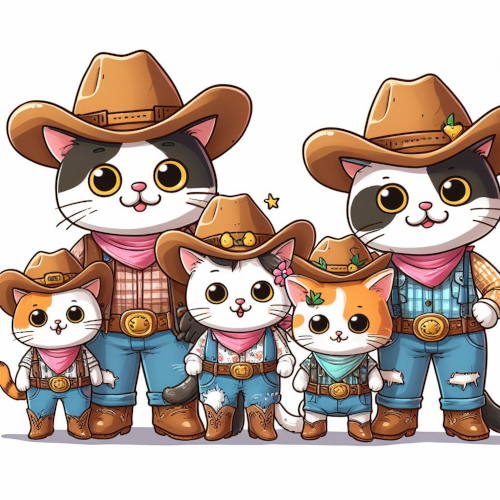
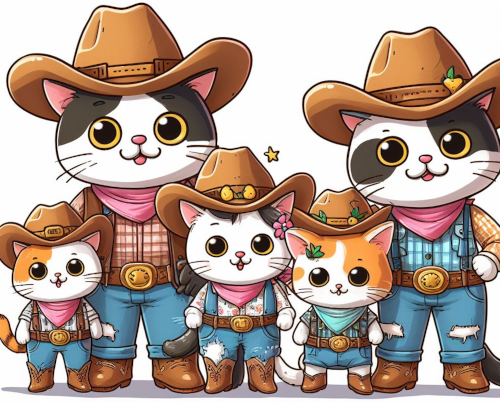
added css

diff --git a/final/rescource.html b/final/rescource.html
@@ -8,7 +8,7 @@
 </head>
 <body>
     <header>
-        <a href="index.html"><img src="img/logo.png" alt="logo"></a>
+        <a href="index.html" class="logo"><img src="img/logo.png" alt="logo"></a>
         <h1>Hopeful Ranch</h1>
         <nav>
             <a href="index.html">Home</a>
@@ -17,34 +17,35 @@
         </nav>
     </header>
     <main>
-        <h1>Rescources for starting a ranch</h1>
+        <h1 class="title_rescources">Rescources for starting a ranch</h1>
+        <img src="img/resources.png" alt="mexican cat" class="mexican_cat">
         <div class="websites">
-            <img src="img/resources.png" alt="mexican cat">
             <h2>Websites:</h2>
+            <a href="https://www.usda.gov/media/blog/2020/09/24/new-and-beginning-farmers-future-american-agriculture">1. USDA New Farmers</a>
             <p>USDA New Farmers: The United States Department of Agriculture (USDA) provides a wealth of resources and information for new farmers and ranchers. Visit their website for guidance on agricultural practices, financing, and more.</p>
-            <a href="https://www.usda.gov/media/blog/2020/09/24/new-and-beginning-farmers-future-american-agriculture">USDA New Farmers</a>
+            <a href="https://www.ncba.org/">2. NCBA</a>
             <p>National Cattlemen's Beef Association (NCBA): If you're interested in cattle ranching, the NCBA offers resources, market information, and educational materials.</p>
-            <a href="https://www.ncba.org/">NCBA</a>
+            <a href="https://extension.org/">3. eXtension</a>
             <p>eXtension: This collaborative platform offers a wide range of resources, articles, and webinars on various aspects of agriculture and ranching.</p>
-            <a href="https://extension.org/">eXtension</a>
+            <a href="https://www.ranchers.net/">4. Ranchers.net</a>
             <p>Ranchers.net: An online community and forum where experienced ranchers share their knowledge, offer advice, and discuss various ranching topics.</p>
-            <a href="https://www.ranchers.net/">Ranchers.net</a>
+            <a href="https://www.rfdtv.com/the-american-rancher">5. American Rancher</a>
             <p>American Rancher: A website offering news, articles, and resources related to the ranching industry, including cattle ranching and agriculture.</p>
-            <a href="https://www.rfdtv.com/the-american-rancher">American Rancher</a>
-
+            
         </div>
+        <img src="img/cowandcat.png" alt="catcow" class="cow_cat">
         <div class="books">
-            <img src="img/cowandcat.png" alt="catcow">
             <h2>Books:</h2>
-            <h3>The Complete Guide to Buying, Owning, and Selling a Ranch</h3>
-            <p>by Peggy Thompson: This comprehensive guide provides insights into the process of purchasing, managing, and selling a ranch.</p>
-            <h3>Raising Beef Cattle For Dummies</h3>
+            <a href="https://www.amazon.com/Raising-Cattle-Dummies-Scott-Royer/dp/0470930616">1. Raising Beef Cattle For Dummies</a>
             <p>by Scott Roy and Nikki Roy: A beginner-friendly book that covers the basics of raising beef cattle, including animal care, feeding, and business aspects.</p>
-            <h3>Ranching Full-Time on 3 Hours a Day</h3>
+            <a href="https://www.amazon.com/Ranching-Full-Time-Three-Hours-Day/dp/1601730268">2. Ranching Full-Time on 3 Hours a Day</a>
             <p>by Cody Holmes: This book offers practical advice on ranch management and time-saving techniques for aspiring ranchers.</p>
-            <h3>Storey's Guide to Raising Beef Cattle</h3>
+            <a href="https://www.amazon.com/Storeys-Guide-Raising-Beef-Cattle/dp/1635860393">3. Storey's Guide to Raising Beef Cattle</a>
             <p>by Heather Smith Thomas: A well-regarded resource for cattle ranchers, covering all aspects of raising beef cattle, from breeding to marketing.</p>
-
+            <a href="https://www.stockmangrassfarmer.com/index.php">4. The Stockman Grassfarmer" magazine</a>
+            <p>While not a book, this publication provides valuable insights into sustainable grazing and livestock management practices.</p>
+            <a href="https://www.amazon.com/Holistic-Management-Third-Commonsense-Environment/dp/161091743X">5. Holistic Management: A Commonsense Revolution to Restore Our Environment</a>
+            <p>by Allan Savory: Although not specific to ranching, this book offers valuable insights into sustainable land management and can be highly relevant to ranching practices.</p>
 
 
         </div>

diff --git a/final/styles/style.css b/final/styles/style.css
@@ -1,0 +1,193 @@
+@import url('https://fonts.googleapis.com/css2?family=Fuggles&family=Kablammo&family=Playpen+Sans:wght@300&family=Sansita&display=swap');
+
+body{
+    margin: 0%;
+}
+header{
+    display: grid;
+    grid-template-columns: repeat(10, 1fr);
+    grid-template-rows: 1fr 75px;
+    background-color: #EFD18B;
+}
+header img, .logo{
+    grid-column: 1/2;
+    grid-row: 1/3;
+    width: 150px;
+    height: 150px;
+    margin: auto;
+}
+header h1{
+    font-size: 4rem;
+    grid-column: 2/5;
+    grid-row: 1/2;
+    margin: auto;
+    color: #9EB33B;
+}
+
+nav{
+    grid-column: 6/11;
+    grid-row: 2/3;
+    display: flex;
+    line-height: 2.4em;
+    text-align: center;
+
+    
+}
+nav a {
+    margin: auto;
+    text-decoration: none;
+    font-size: 2rem;
+    color: #9EB33B;
+    padding: 1.1rem;
+    font-family: Sansita, Helvetica, sans-serif;
+}
+nav a:hover{
+    color: #D9DAD3;
+    background-color: #FA9827;
+
+}
+main{
+    font-family: Sansita, Helvetica, sans-serif;
+    max-width: 57%;
+    margin: auto;
+    margin-bottom: 100px;
+    display: grid;
+    grid-template-columns: 1fr;
+    grid-template-rows: 1fr;
+
+}
+main p{
+    color: #EFD18B;
+    font-size: 1.55rem;
+    padding-left: 7rem;
+    padding-right: 7rem;
+    text-align: center;
+}
+main img{
+    
+    margin: 50px auto;
+}
+.title_rescources{
+    font-size: 5rem;
+    color: #EFD18B;
+    text-align: center;
+    grid-column: 1/3;
+    grid-row: 1/2;
+}
+.mexican_cat{
+    grid-column: 1/2;
+    grid-row: 2/3;
+}
+.websites{
+    grid-column: 2/3;
+    grid-row: 2/3;
+}
+.websites a, .books a{
+    padding: 1rem;
+    text-decoration: none;
+    color: #EFD18B;
+    font-size: 2rem;
+}
+.websites a:hover, .books a:hover{
+    color: #FA9827;
+}
+.websites h2, .books h2{
+    padding: 2rem;
+    font-size: 3rem;
+    margin-top: 8rem;
+    margin-bottom: 5rem;
+    color: #EFD18B;
+}
+.websites p, .books p{
+    margin-left: 2.5rem;
+    padding: 1rem;
+    text-align: left;
+}
+
+.cow_cat{
+    grid-column: 1/2;
+    grid-row: 3/4;
+}
+.books{
+    grid-column: 2/3;
+    grid-row: 3/4;
+}
+.how_we h1{
+    text-align: center;
+    color: #EFD18B;
+    font-size: 3rem;
+}
+
+.p_par1{
+    grid-column: 1/2;
+    grid-row: 2/3;
+    padding: 10px;
+}
+.p_par1 p img{
+    float: left;
+    margin: 10px;
+    height: 200px;
+    width: 200px;
+}
+.p_par1 p{
+    font-size: 2rem;
+}
+.p_par2{
+    grid-column: 1/2;
+    grid-row: 4/5;
+    padding: 10px;
+}
+.p_par2 p{
+    font-size: 2rem;
+}
+.p_par2 p img{
+    float: right;
+    margin: 10px;
+    height: 200px;
+    width: 200px;
+}
+.warning{
+    margin-top: 5rem;
+}
+.warning h1 {
+    padding-top: 5rem;
+}
+.warning_one{
+    float: right;
+}
+.warning_two{
+    float: left;
+}
+.family_photo{
+    height: 500px;
+    width: 80%;
+
+}
+footer{
+    background-color: #EFD18B;
+    display: grid;
+    grid-template-columns: repeat(12, 1fr);
+    grid-template-rows: 100px;
+}
+footer img{
+    height: 75px;
+    width: 75px;
+}
+.facebook{
+    grid-column: 1/2;
+    margin: auto;
+}
+.instagram{
+    grid-column: 2/3;
+    margin: auto;
+}
+.blogger{
+    grid-column: 3/4;
+    margin: auto;
+}
+footer p{
+    padding: 1rem;
+    grid-column: 10/13;
+    text-align: end;
+    padding-top: 4rem;
+}

diff --git a/final/how_we_started.html b/final/how_we_started.html
@@ -8,7 +8,7 @@
 </head>
 <body>
     <header>
-        <a href="index.html"><img src="img/logo.png" alt="logo"></a>
+        <a href="index.html" class="logo"><img src="img/logo.png" alt="logo"></a>
         <h1>Hopeful Ranch</h1>
         <nav>
             <a href="index.html">Home</a>
@@ -16,23 +16,23 @@
             <a href="rescource.html">Resourses</a>
         </nav>
     </header>
-    <main>
+    <main class="how_we">
         <h1>How We Started</h1>
-        <div class="2p_par1">
-            <img src="img/field.png" alt="farm">
-            <p>We started in the summer of 2014. The main driving force for this change was I lost my job and have no way to do it. I used to install satellites but the company went under so I looked for something to do and a good friend from church offered that we start ranching. So that is exactly what we did. It was a massive change of life. I am thankful that my friend helped us along the path and now I can't imagine living any other way.</p>
+        <div class="p_par1">
+            
+            <p><img src="img/field.png" alt="farm">
+             We started in the summer of 2014. The main driving force for this change was I lost my job and have no way to do it. I used to install satellites but the company went under so I looked for something to do and a good friend from church offered that we start ranching. So that is exactly what we did. It was a massive change of life. I am thankful that my friend helped us along the path and now I can't imagine living any other way.</p>
         </div>
         <h1>Starting Ranch</h1>
-        <div class="2p_par2">
-            <img src="img/ranchhand.png" alt="ranch hand">
-            <p>Our ranch started out as only 100 areas and 5 horses all quarter horses. From there we went to the auction where with the help of our dear friends we bought 50 head. That was everything we had. We now have 100-125 head a year that we raise a year. We also now have 200 acres.</p>
+        <div class="p_par2">
+            <p><img src="img/ranchhand.png" alt="ranch hand">Our ranch started out as only 100 areas and 5 horses all quarter horses. From there we went to the auction where with the help of our dear friends we bought 50 head. That was everything we had. We now have 100-125 head a year that we raise a year. We also now have 200 acres.</p>
         </div>
         <div class="warning">
-            <img src="img/warning.png" alt="warning img">
-            <img src="img/warning.png" alt="warning img">
-            <h1>! Warning !</h1>
-            <p>Of course this is all fake and has little to no substance. This is just for a homework assignment of making a website not a ranching class or I would have failed it.</p>
+            <img src="img/warning.png" alt="warning img" class="warning_one"> 
+            <img src="img/warning.png" alt="warning img" class="warning_two">
+            <h1>   ! Warning !   </h1>
         </div>
+        <p>Of course this is all fake and has little to no substance. This is just for a homework assignment of making a website not a ranching class or I would have failed it.</p> 
     </main>
     <footer>
         <img src="img/facebook.png" alt="facebook" class="facebook">

diff --git a/final/index.html b/final/index.html
@@ -8,7 +8,7 @@
 </head>
 <body>
     <header>
-        <a href="index.html"><img src="img/logo.png" alt="logo"></a>
+        <a href="index.html" class="logo"><img src="img/logo.png" alt="logo"></a>
         <h1>Hopeful Ranch</h1>
         <nav>
             <a href="index.html">Home</a>
@@ -20,12 +20,18 @@
         <img src="img/family.png" alt="family photo" class="family_photo">
         <p>Hopeful Ranch is all done on horseback. We raise longhorns and we have 200 acres of land. We mainly use quarter horses but we also have some Arabs. We enjoy long days in the saddle and camping under the stars when it comes to herding season. We also have a small garden that we take care of in our free time. It is full of potatoes, corn, onions, and tomatoes. This help provides for our needs. We also grow alfalfa in a couple of pastors to help supply the cow in the winter.</p>
         <img src="img/the freind.png" alt="the friend"  class="friend">
-        <p class="home2p">Our family has own this ranch for only 9 year and we still have so much to learn.</p>
+        <p class="home2p">Our family has owned this ranch for only 9 year and we still have so much to learn.</p>
     </main>
     <footer>
+        <a href="https://www.facebook.com/" target="_blank" class="facebook">
         <img src="img/facebook.png" alt="facebook" class="facebook">
+        </a>
+        <a href="https://www.instagram.com/" target="_blank" class="instagram">
         <img src="img/instagram.png" alt="instagram" class="instagram">
+        </a>
+        <a href="https://www.blogger.com/" target="_blank" class="blogger">
         <img src="img/blogger.png" alt="blogger" class="blogger">
+        </a>
         <p>&copy; by Max Laswell 2023</p>
     </footer>
     
